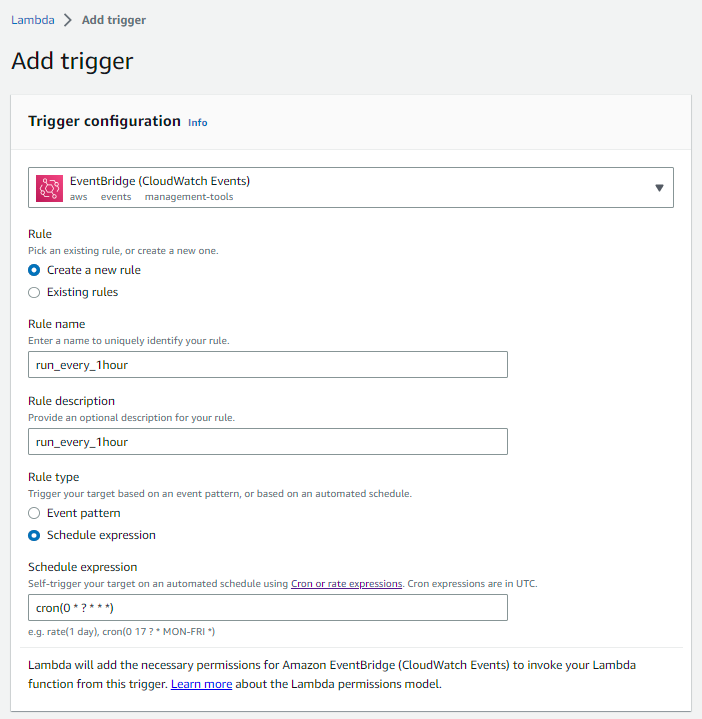
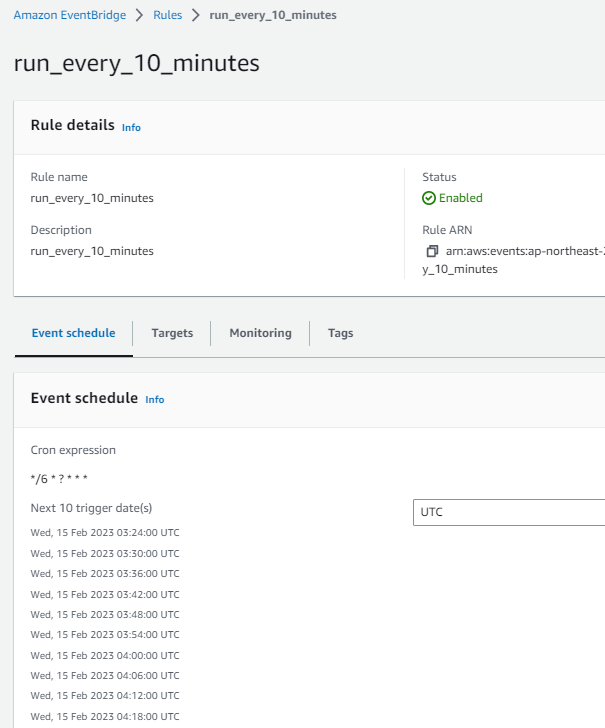
update post: emergency alert api

diff --git a/docs/Memozzang/Emergency_alert_to_slack.md b/docs/Memozzang/Emergency_alert_to_slack.md
@@ -1,11 +1,11 @@
 # 재난안전문자 API 활용하기
 
 ## 목적
-재난문자 발생 시점마다 트래픽이 튀어서 광범위로 발송되는 재난문자 발생 시점 파악이 필요했습니다.
+재난문자 발생 시점마다 트래픽이 튀어서 광범위로 발송되는 재난문자 발생 시점 파악이 필요했습니다.<br>
 때문에 재난문자 발생 시 Slack으로 알람을 쏴주도록 구성해보았습니다
 
 ## 절차
-1. 아래 사이트에서 재난문자 발생 내역으 확인할 수 있습니다<br>
+1. 아래 사이트에서 재난문자 발생 내역을 확인할 수 있습니다<br>
    https://www.safekorea.go.kr/idsiSFK/neo/sfk/cs/sfc/dis/disasterMsgList.jsp?menuSeq=679
 
 2. 아래 공공데이터 포털에서 재난문자 API 사용신청 후 인증키를 수령합니다<br>
@@ -18,12 +18,12 @@ import datetime
 
 auth_key = ""
 return_type = "json"
-request_row = "500"
-target_message_time = 60 #cron 주기로 사용 할 분(minutes) 값을 입력한다. 60을 입력할 경우 최근 60분간 메시지만 전송한다.
+request_row = "1000"
+target_message_time = 720 #cron 주기로 사용 할 분(minutes) 값을 입력한다. 1을 입력할 경우 최근 1분간 메시지만 전송한다.
 target_location_ids = ["2", "21", "53", "74", "98", "104", "113", "119", "136", "162", "168", "179", "202", "217", "222", "238", "6474", "6474"]
 # location_id는 다음 문서를 참조: https://www.data.go.kr/data/15066113/fileData.do 
 
-slack_webhook_url = "https://hooks.slack.com/services/~~~~"
+slack_webhook_url = "https://hooks.slack.com/services/~~~~~~~"
 
 def load_messages() -> list: 
     """
@@ -83,24 +83,54 @@ def send_slack_message(message: dict) -> None:
         }
         requests.post(slack_webhook_url, json=payload)
 
-def main():
+def lambda_handler(event, context):
     messages = load_messages()
     for message in messages:
         send_slack_message(message)
-    
-main()
+    return {
+        "statusCode": 200
+    }
 ```
 
-4. AWS Lambda에 함수를 생성하고 코드를 주입합니다
-    ![image_1](Emergency_alert_to_slack/1.PNG)
-
-5. AWS Lambda를 매 시간마다 실행합니다
+5. AWS Lambda를 매 10분 마다 실행합니다
     ![image_2](Emergency_alert_to_slack/2.PNG)
     ![image_3](Emergency_alert_to_slack/3.PNG)
 
-6. API 에러율이 너무 높습니다
+6. 공공데이터가 원래 그런건지 재난문자 API 에러율이 너무 높습니다<br>
+    API 자체의 호출 성공률이 낮습니다. 3번 실행하면 2번은 실패? 때문에 Lambda 설정에서 코드 재실행을 2회까지 허용합니다
     ![image_4](Emergency_alert_to_slack/4.PNG)
     ![image_5](Emergency_alert_to_slack/5.PNG)
-    !!! warning
-        희한하게 API 호출 성공률이 낮습니다. 3번 실행하면 2번은 실패?
-        때문에 Lambda 설정에서 코드 재실행을 2회까지 허용합니다
+
+7. CloudWatch를 이용해 확인해보니 requests 라이브러리가 없다고 합니다
+    ![image_6](Emergency_alert_to_slack/6.PNG)
+
+8. Local에 python3.9용 requests library를 다운로드하고 압축합니다
+    ```s
+    mkdir temp_for_download_module && cd temp_for_download_module
+
+    pip install \
+    --platform manylinux2014_x86_64 \
+    --target=emergency_alert_to_slack \
+    --implementation cp \
+    --python 3.9 \
+    --only-binary=:all: --upgrade \
+    requests
+    ```
+    ![image_6](Emergency_alert_to_slack/6.PNG)
+    ![image_7](Emergency_alert_to_slack/7.PNG)
+
+9. 작성했던 코드로 lambda_function.py로 저장해줍니다
+    ![image_8](Emergency_alert_to_slack/8.PNG)
+
+10. AWS Lambda -> Code 탭 > Upload from > .zip file 클릭 후 방금 생성한 압축파일을 업로드 해줍니다
+    ![image_10](Emergency_alert_to_slack/10.PNG)
+    ![image_11](Emergency_alert_to_slack/11.PNG)
+
+11. 잘 동작하는 구조는 다음과 같습니다
+    ![image_12](Emergency_alert_to_slack/12.PNG)
+
+12. Test 탭에서 'Test'버튼을 클릭했을 때 에러가 발생하지 않으면 다음과 같이 초록색 화면이 표시됩니다(에러나면 빨간색)
+    ![image_13](Emergency_alert_to_slack/13.PNG)
+
+13. Slack에 다음과 같이 메세지가 잘 전송됩니다
+    ![image_14](Emergency_alert_to_slack/14.PNG)